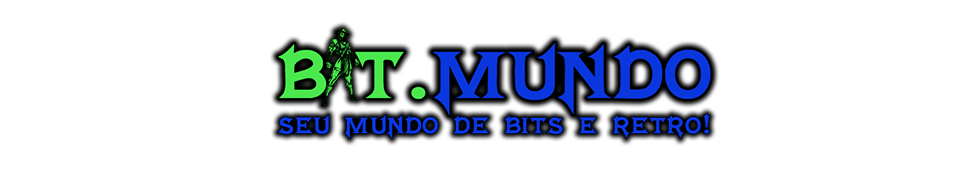
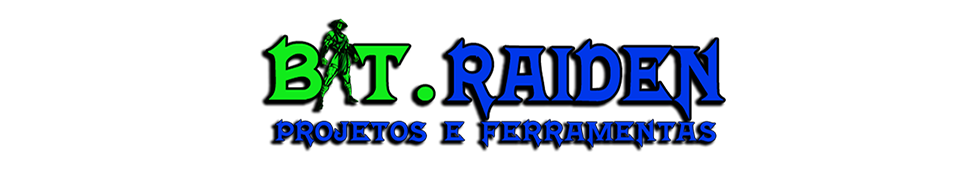
att_site_logonames

Changed region(s): [[0.2474, 0.1111, 0.7732, 0.8333]]

diff --git a/footer.html b/footer.html
@@ -1,4 +1,4 @@
 <hr />
     <p class="aligncenter">
-      <b>&circledR; Bit.Mundo</b> 2025 - Desenvolvido por Bit.Raiden
+      <b>&circledR; Bit.Raiden</b> 2026
     </p>
